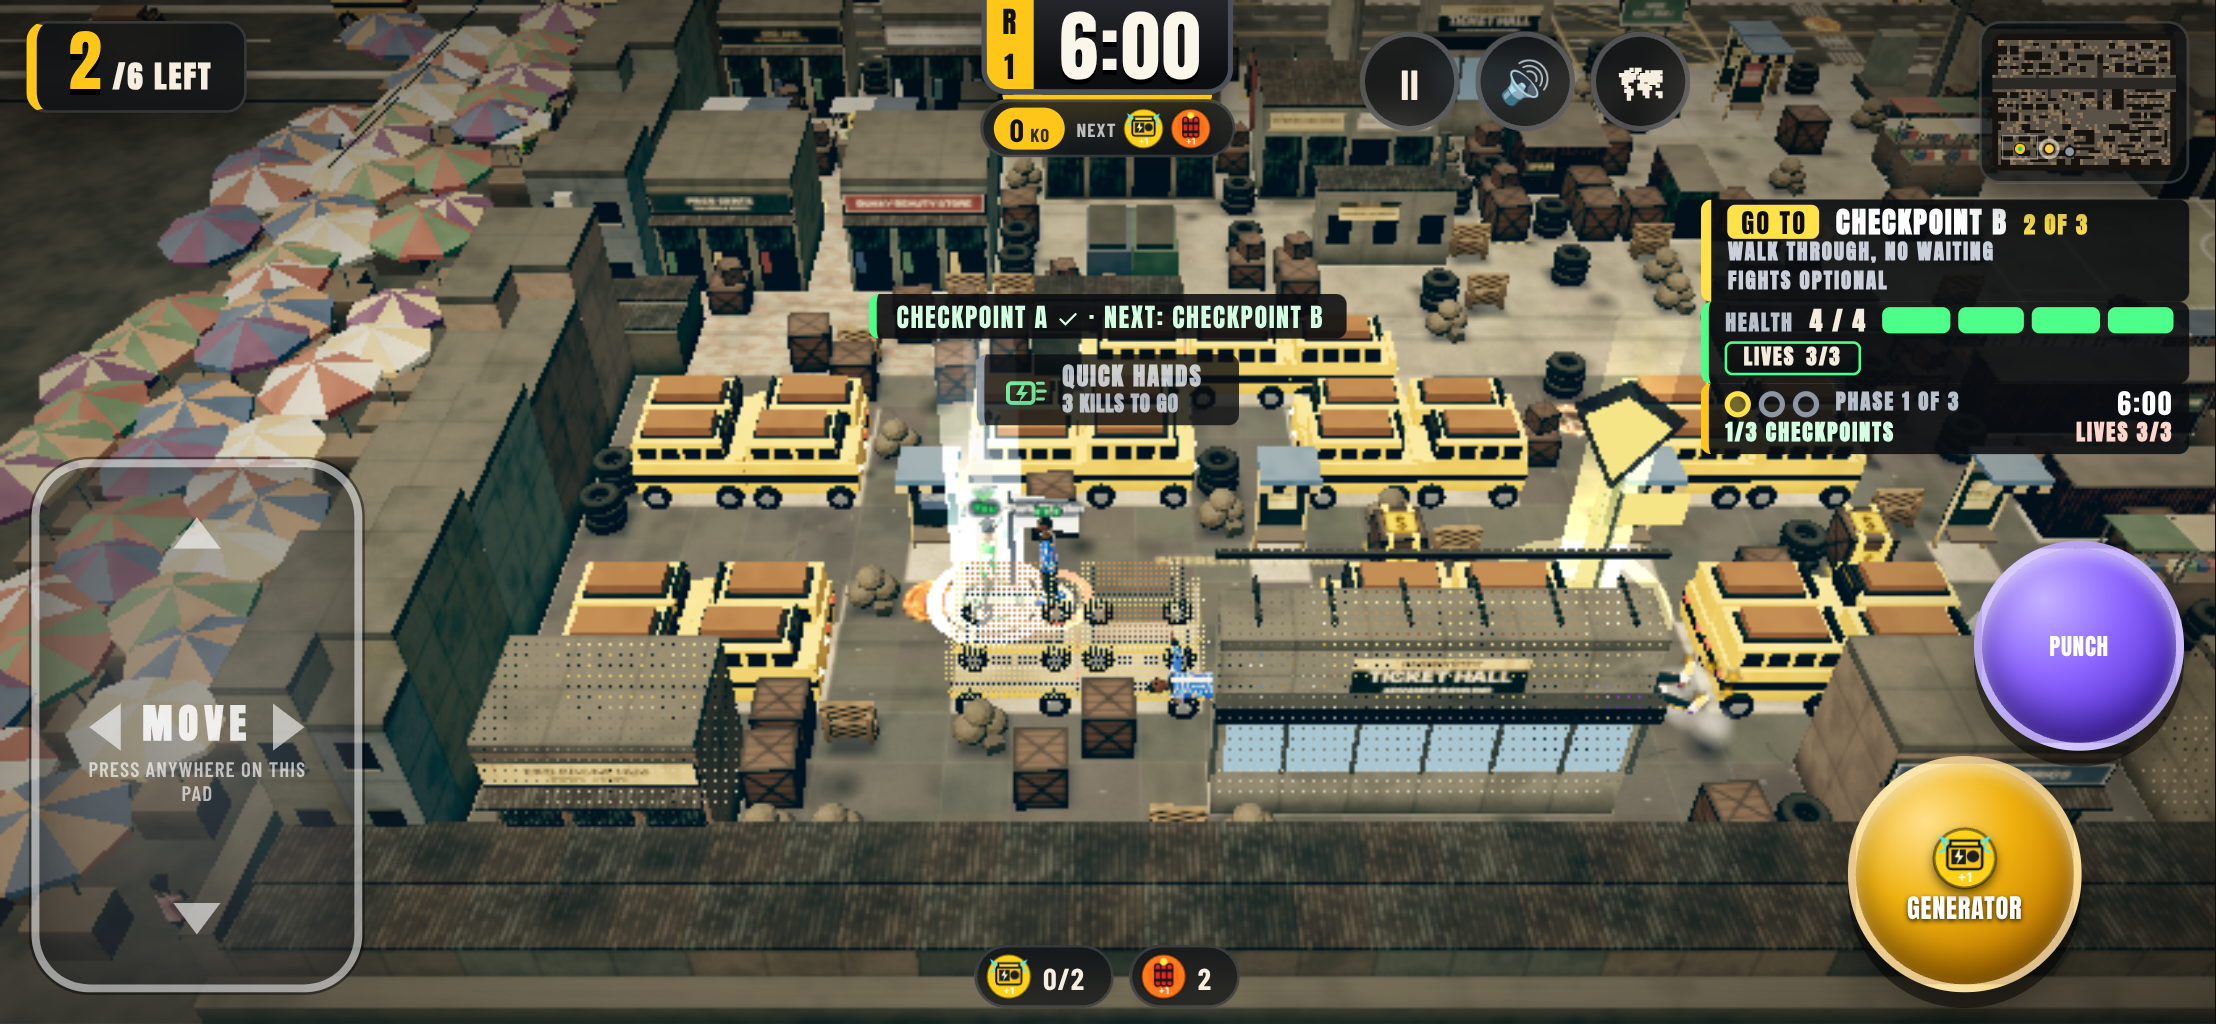
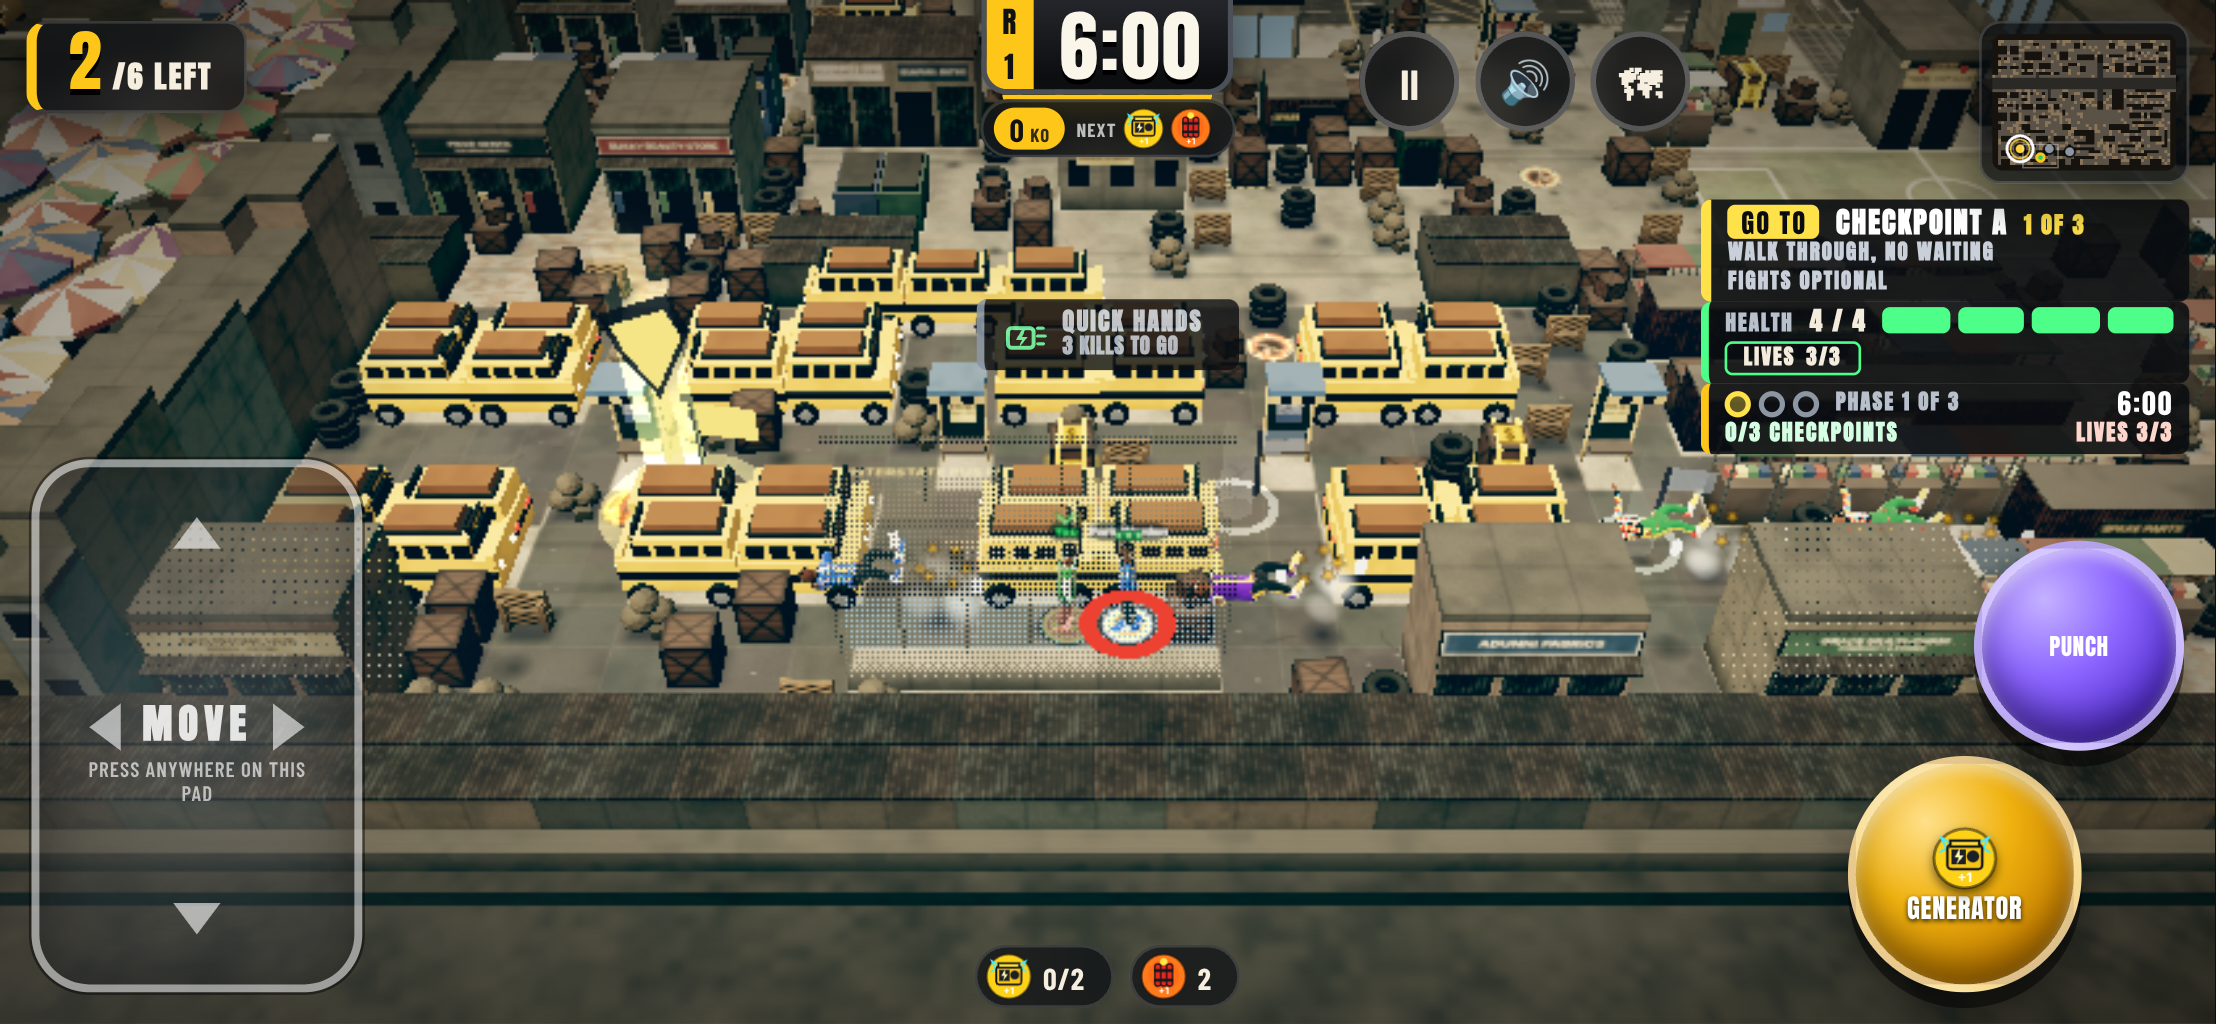
Combat pilot: bolder wind-up rings, final Easy / Hard measurements, test record
Claude-Session: https://claude.ai/code/session_01QeTP4xoynQhrYLnz77NTBF

diff --git a/docs/OSHODI_COMBAT_PILOT.md b/docs/OSHODI_COMBAT_PILOT.md
@@ -123,8 +123,10 @@ second and reacts in 0.3 s; the slower player taps 3 times a second and reacts i
 Chained interruptions (an enemy hit less than 1 s after the last daze ended): 0 in every run, before and after.
 
 Easy / Hard (`npm run combat-pilot -- --level easy|hard --only fight`): the slower player takes 0 / 11.0 / 39.6 segments
-a minute against one guard (Easy / Normal / Hard), 0 / 7.0 / 22.3 against two guards, and 0 / 4.6 / 19.5 against guard +
-thrower. Human health is 5 / 4 / 3. No run on any level lost a life except the generator-only thrower fight (one death
+a minute against one guard (Easy / Normal / Hard), 0 / 7.0 / 22.4 against two guards, and 0 / 4.6 / 19.5 against guard +
+thrower. Human health is 5 / 4 / 3. One oddity: on Easy the fast player takes about 0.25 segments a guard (10.8 a
+minute; 0 on Normal and Hard). The cause was not investigated: probably the Beginner bot's different timing
+(hesitation pauses) together with Easy's slower counter-swing. The amounts are small. No run on any level lost a life except the generator-only thrower fight (one death
 on Normal and before the pilot). Full tables: `docs/measurements/oshodi-combat-pilot-easy.md`,
 `docs/measurements/oshodi-combat-pilot-hard.md`.
 
@@ -180,3 +182,21 @@ Controls: **keyboard** arrows / WASD move, Space or J = A (generator, hold = rem
 hold = remote). **Touch**: left thumbstick, GENERATOR and B buttons on the right. **Gamepad**: left stick / d-pad,
 A = generator, B / X = punch (`input/gamepad.ts`). All three go through the same `Intent`, so the buffer and the punch
 behave the same on every device.
+
+## Tests (what was run on this branch)
+
+- `npx tsc --noEmit`, `npx eslint .`: clean. Prettier on every changed file.
+- `npx vitest run`: 220 files, 3490 passed, 1 expected fail (the respawn-hotfix tripwire above), 7 skipped. Includes
+  `tests/oshodi-combat-pilot.test.ts` (22: the gate, scenarios 1-8 and 10) and the unchanged regression suites: blast
+  rules, mission regression hashes, the multiplayer digest, enemy fairness, raids, bosses, other field missions,
+  Rumble, audio and app.
+- `npm run build`: passes.
+- Playwright (`--trace off`, served from the build), desktop and mobile (844 x 390 touch): `e2e/oshodi-combat-pilot.spec.ts`
+  (real keyboard and real touch buttons: a swing at the air takes nothing, three punches drop a warden, A lays a
+  generator, a second A is refused, no page errors) and `e2e/checkpoint-clarity.spec.ts` (checkpoints, door hold, raid
+  start). All 4 passed. The full release suite was not run (by instruction).
+- Reconciliation check on a LOCAL scratch merge of this branch with `claude/wahala-respawn-freeze-hotfix-v1`
+  (`5869154`; not pushed): only `docs/DECISIONS.md` conflicts (both append); `tick.ts` merges cleanly; the hotfix's
+  `campaign-respawn-lifecycle` / `campaign-respawn-controller` tests and the pilot tests pass, 46 / 46, with the
+  tripwire flipped to `it`.
+- Screenshots: `docs/screenshots/oshodi-combat-pilot/{desktop,mobile}-windup.png` (a warden winding up: the red ring).

diff --git a/docs/measurements/oshodi-combat-pilot-easy.md b/docs/measurements/oshodi-combat-pilot-easy.md
@@ -7,13 +7,13 @@
 | thrower | punch only | 8/8 | 2.1 | 8 / 0 | 0.00 | 0.0 | 0 | 0 | 16 / 24 | 16 / 0 / 0 | 0 / 0 | 0 / 0 | 0.0 |
 | guard | generators only | 8/8 | 11.9 | 0 / 8 | 0.63 | 0.6 | 0 | 0 | 0 / 0 | 0 / 0 / 0 | 27 / 27 | 19 / 27 | 0.3 |
 | thrower | generators only | 8/8 | 9.0 | 0 / 8 | 0.00 | 3.3 | 0 | 0 | 0 / 0 | 0 / 0 / 0 | 19 / 19 | 11 / 19 | 0.3 |
-| guard + thrower | mixed | 8/8 | 3.1 | 15 / 1 | 0.00 | 0.0 | 0 | 0 | 44 / 78 | 39 / 0 / 5 | 10 / 10 | 3 / 10 | 0.0 |
-| 2 guards | punch only | 8/8 | 3.3 | 16 / 0 | 11.53 | 11.5 | 0 | 0 | 53 / 97 | 48 / 0 / 5 | 0 / 0 | 0 / 0 | 5.8 |
+| guard + thrower | mixed | 8/8 | 3.0 | 15 / 1 | 0.00 | 0.0 | 0 | 0 | 44 / 77 | 39 / 0 / 5 | 10 / 10 | 3 / 10 | 0.0 |
+| 2 guards | punch only | 8/8 | 3.3 | 16 / 0 | 11.44 | 11.4 | 0 | 0 | 54 / 98 | 48 / 0 / 6 | 0 / 0 | 0 / 0 | 5.7 |
 | 2 guards | mixed | 8/8 | 4.0 | 16 / 0 | 1.88 | 1.9 | 0 | 0 | 51 / 85 | 48 / 0 / 3 | 11 / 11 | 3 / 11 | 0.9 |
-| heavy | punch only | 8/8 | 4.0 | 8 / 0 | 14.97 | 15.0 | 0 | 0 | 40 / 82 | 40 / 0 / 0 | 0 / 0 | 0 / 0 | 10.0 |
-| heavy | mixed | 8/8 | 5.6 | 6 / 2 | 10.67 | 10.7 | 0 | 0 | 40 / 75 | 38 / 0 / 2 | 14 / 14 | 6 / 14 | 7.1 |
+| heavy | punch only | 8/8 | 4.0 | 8 / 0 | 15.02 | 15.0 | 0 | 0 | 40 / 82 | 40 / 0 / 0 | 0 / 0 | 0 / 0 | 10.0 |
+| heavy | mixed | 8/8 | 5.5 | 6 / 2 | 10.94 | 10.9 | 0 | 0 | 42 / 74 | 38 / 0 / 4 | 13 / 13 | 5 / 13 | 7.3 |
 | guard | SLOWER player, punch only | 8/8 | 1.3 | 8 / 0 | 0.00 | 0.0 | 0 | 0 | 24 / 32 | 24 / 0 / 0 | 0 / 0 | 0 / 0 | 0.0 |
-| 2 guards | SLOWER player, punch only | 8/8 | 2.8 | 16 / 0 | 0.00 | 0.0 | 0 | 0 | 48 / 64 | 48 / 0 / 0 | 0 / 0 | 0 / 0 | 0.0 |
-| guard + thrower | SLOWER player, mixed | 8/8 | 3.1 | 12 / 4 | 0.00 | 0.0 | 0 | 0 | 36 / 52 | 36 / 0 / 0 | 9 / 9 | 5 / 9 | 0.0 |
-| heavy | SLOWER player, punch only | 8/8 | 3.8 | 8 / 0 | 3.97 | 4.0 | 0 | 0 | 42 / 58 | 40 / 0 / 2 | 0 / 0 | 0 / 0 | 2.6 |
-| heavy | SLOWER player, mixed | 8/8 | 5.3 | 8 / 0 | 11.30 | 11.3 | 0 | 0 | 50 / 58 | 40 / 0 / 10 | 16 / 16 | 8 / 16 | 7.5 |
+| 2 guards | SLOWER player, punch only | 8/8 | 2.7 | 16 / 0 | 0.00 | 0.0 | 0 | 0 | 49 / 64 | 48 / 0 / 1 | 0 / 0 | 0 / 0 | 0.0 |
+| guard + thrower | SLOWER player, mixed | 8/8 | 2.8 | 14 / 2 | 0.00 | 0.0 | 0 | 0 | 42 / 51 | 38 / 0 / 4 | 9 / 9 | 3 / 9 | 0.0 |
+| heavy | SLOWER player, punch only | 8/8 | 3.7 | 8 / 0 | 4.04 | 4.0 | 0 | 0 | 42 / 58 | 40 / 0 / 2 | 0 / 0 | 0 / 0 | 2.7 |
+| heavy | SLOWER player, mixed | 8/8 | 5.3 | 8 / 0 | 11.36 | 11.4 | 0 | 0 | 51 / 58 | 40 / 0 / 11 | 16 / 16 | 8 / 16 | 7.6 |

diff --git a/docs/measurements/oshodi-combat-pilot-hard.md b/docs/measurements/oshodi-combat-pilot-hard.md
@@ -7,13 +7,13 @@
 | thrower | punch only | 8/8 | 2.1 | 8 / 0 | 0.00 | 0.0 | 0 | 0 | 16 / 24 | 16 / 0 / 0 | 0 / 0 | 0 / 0 | 0.0 |
 | guard | generators only | 8/8 | 6.0 | 0 / 8 | 1.25 | 1.2 | 0 | 0 | 0 / 0 | 0 / 0 / 0 | 14 / 14 | 6 / 14 | 0.6 |
 | thrower | generators only | 8/8 | 8.9 | 0 / 8 | 0.00 | 0.0 | 0 | 0 | 0 / 0 | 0 / 0 / 0 | 19 / 19 | 11 / 19 | 0.0 |
-| guard + thrower | mixed | 8/8 | 3.1 | 13 / 3 | 0.00 | 16.8 | 0 | 0 | 39 / 71 | 36 / 0 / 3 | 9 / 9 | 5 / 9 | 0.0 |
+| guard + thrower | mixed | 8/8 | 3.1 | 13 / 3 | 0.00 | 16.8 | 0 | 0 | 42 / 71 | 36 / 0 / 6 | 9 / 9 | 5 / 9 | 0.0 |
 | 2 guards | punch only | 8/8 | 2.8 | 16 / 0 | 0.00 | 0.0 | 0 | 0 | 48 / 80 | 48 / 0 / 0 | 0 / 0 | 0 / 0 | 0.0 |
-| 2 guards | mixed | 8/8 | 3.6 | 16 / 0 | 0.00 | 0.0 | 0 | 0 | 48 / 82 | 48 / 0 / 0 | 10 / 10 | 3 / 10 | 0.0 |
-| heavy | punch only | 8/8 | 4.5 | 8 / 0 | 13.36 | 13.4 | 0 | 0 | 48 / 98 | 48 / 0 / 0 | 0 / 0 | 0 / 0 | 8.9 |
-| heavy | mixed | 8/8 | 5.9 | 6 / 2 | 11.36 | 11.4 | 0 | 0 | 46 / 90 | 44 / 0 / 2 | 14 / 14 | 6 / 14 | 7.6 |
+| 2 guards | mixed | 8/8 | 3.6 | 16 / 0 | 0.00 | 0.0 | 0 | 0 | 51 / 82 | 48 / 0 / 3 | 10 / 10 | 3 / 10 | 0.0 |
+| heavy | punch only | 8/8 | 4.5 | 8 / 0 | 13.40 | 13.4 | 0 | 0 | 48 / 98 | 48 / 0 / 0 | 0 / 0 | 0 / 0 | 8.9 |
+| heavy | mixed | 8/8 | 5.9 | 6 / 2 | 11.37 | 11.4 | 0 | 0 | 48 / 90 | 44 / 0 / 4 | 14 / 14 | 6 / 14 | 7.6 |
 | guard | SLOWER player, punch only | 8/8 | 1.5 | 8 / 0 | 39.56 | 39.6 | 0 | 0 | 24 / 32 | 24 / 0 / 0 | 0 / 0 | 0 / 0 | 19.8 |
-| 2 guards | SLOWER player, punch only | 8/8 | 3.0 | 16 / 0 | 22.33 | 22.3 | 0 | 0 | 48 / 64 | 48 / 0 / 0 | 0 / 0 | 0 / 0 | 11.2 |
+| 2 guards | SLOWER player, punch only | 8/8 | 3.0 | 16 / 0 | 22.41 | 22.4 | 0 | 0 | 48 / 64 | 48 / 0 / 0 | 0 / 0 | 0 / 0 | 11.2 |
 | guard + thrower | SLOWER player, mixed | 8/8 | 3.1 | 11 / 5 | 19.51 | 19.5 | 0 | 0 | 35 / 51 | 35 / 0 / 0 | 8 / 8 | 5 / 8 | 9.8 |
-| heavy | SLOWER player, punch only | 8/8 | 4.3 | 8 / 0 | 3.52 | 3.5 | 0 | 0 | 50 / 66 | 48 / 0 / 2 | 0 / 0 | 0 / 0 | 2.3 |
-| heavy | SLOWER player, mixed | 8/8 | 6.5 | 6 / 2 | 11.58 | 11.6 | 0 | 0 | 58 / 68 | 46 / 0 / 12 | 18 / 18 | 10 / 18 | 7.7 |
+| heavy | SLOWER player, punch only | 8/8 | 4.2 | 8 / 0 | 3.58 | 3.6 | 0 | 0 | 50 / 66 | 48 / 0 / 2 | 0 / 0 | 0 / 0 | 2.4 |
+| heavy | SLOWER player, mixed | 8/8 | 6.2 | 6 / 2 | 12.04 | 12.0 | 0 | 0 | 60 / 66 | 46 / 0 / 14 | 16 / 16 | 8 / 16 | 8.0 |
